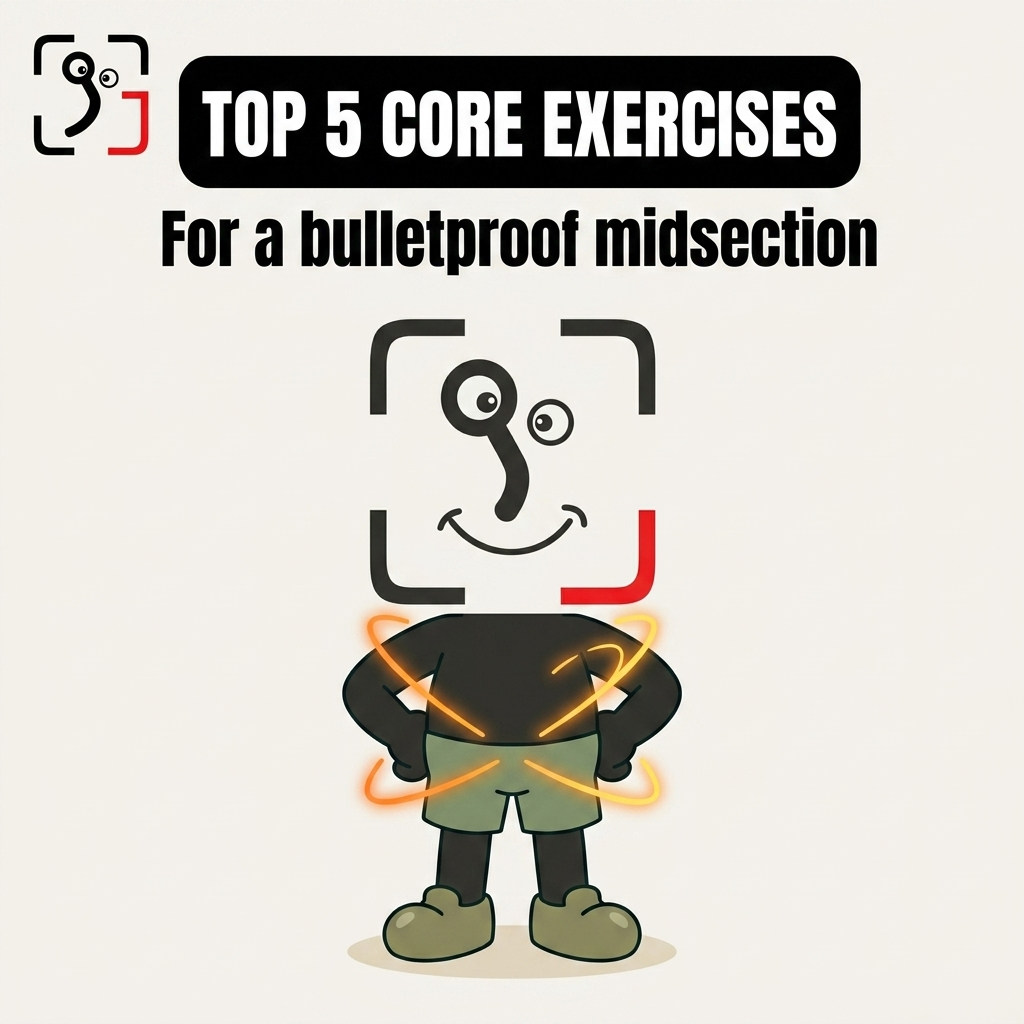
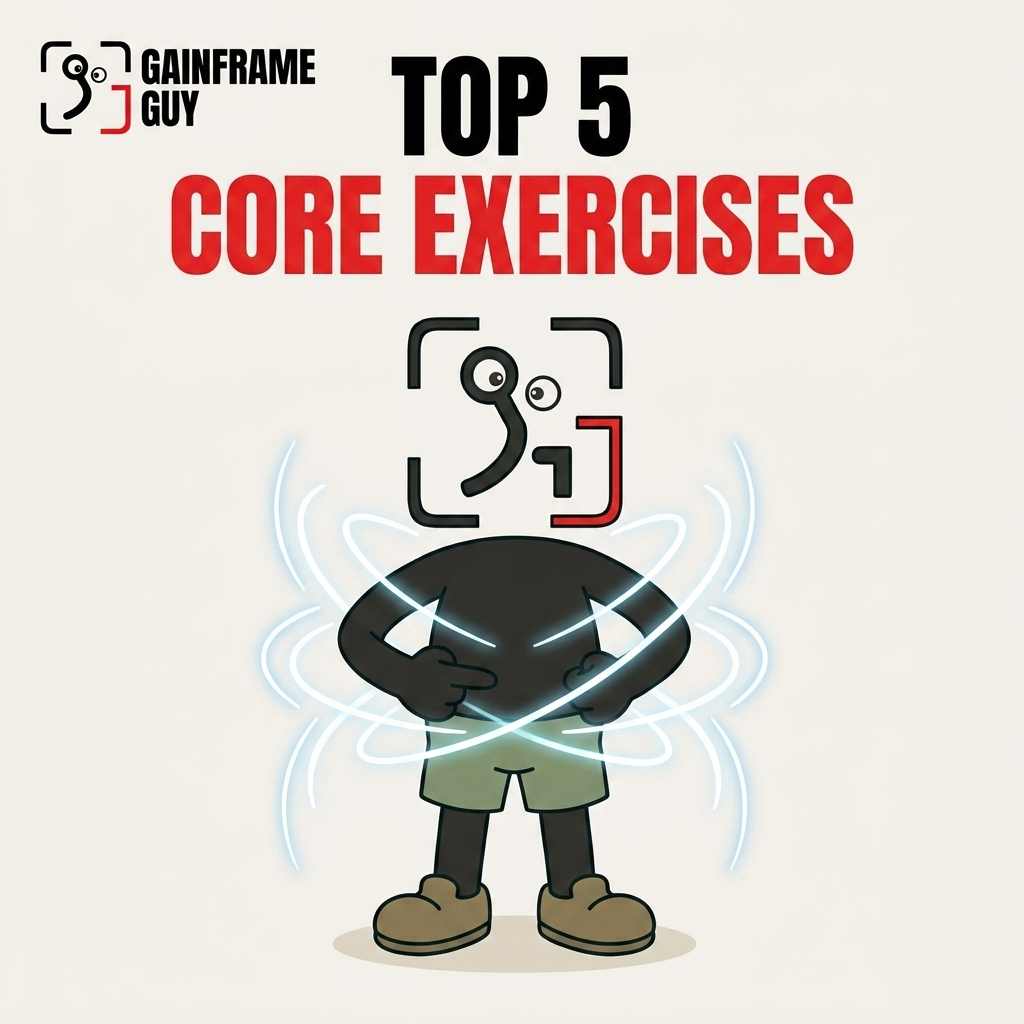
fix: update tiktok carousel skill and style guide to enforce raw text on cover slides and replace core cover image

Changed region(s): [[0.25, 0.3125, 0.7812, 0.9688], [0.0312, 0.0312, 0.875, 0.2812]]

diff --git a/.agent/skills/tiktok-carousel-generator/SKILL.md b/.agent/skills/tiktok-carousel-generator/SKILL.md
@@ -224,6 +224,7 @@ BOTTOM 60% of the image.
 
 TITLE TEXT PLACEMENT (CRITICAL — READ CAREFULLY): 
 - The title text MUST be placed in the TOP 40% of the image.
+- The title text MUST be raw text directly on the background. DO NOT place the title inside any shape, box, or black rounded rectangle banner.
 - The title text MUST be centered horizontally, taking up around 75% to 80% of the image width.
 - Leave moderate margins on both the left and right sides so it doesn't touch the edges.
 - Stack the title into 2-3 SHORT lines (max 4-5 words per line), centered.

diff --git a/assets/gf-mascot/STYLE_GUIDE.md b/assets/gf-mascot/STYLE_GUIDE.md
@@ -162,6 +162,7 @@ BOTTOM 60% of the image.
 
 TITLE TEXT PLACEMENT (CRITICAL — READ CAREFULLY): 
 - The title text MUST be placed in the TOP 40% of the image.
+- The title text MUST be raw text directly on the background. DO NOT place the title inside any shape, box, or black rounded rectangle banner.
 - The title text MUST be centered horizontally, taking up around 75% to 80% of the image width.
 - Leave moderate margins on both the left and right sides so it doesn't touch the edges.
 - Stack the title into 2-3 SHORT lines (max 4-5 words per line), centered.
